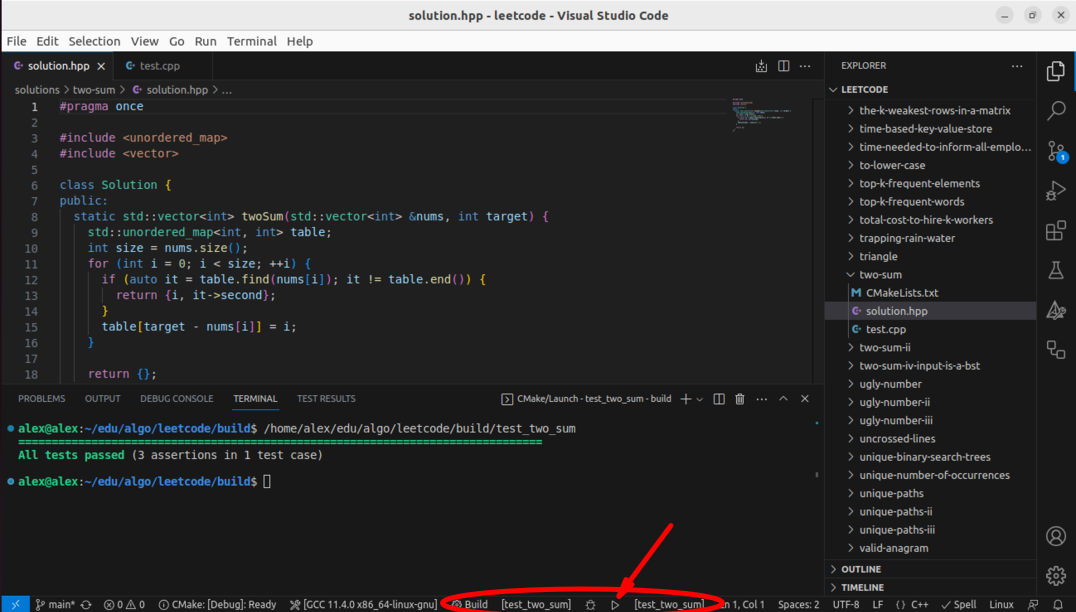
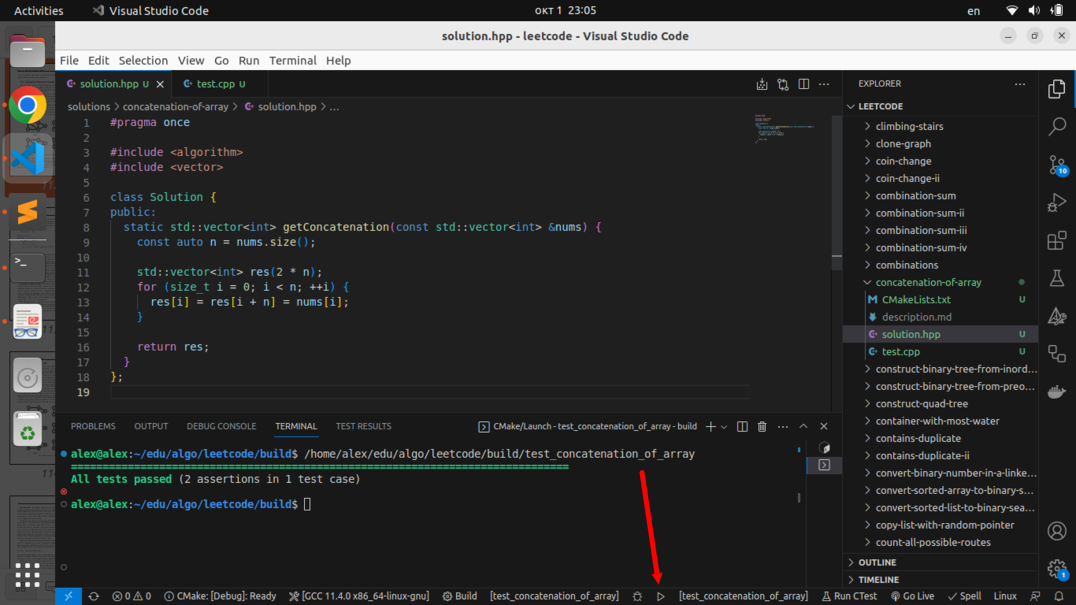
Update README.md

diff --git a/leetcode.py b/leetcode.py
@@ -1,5 +1,6 @@
-from argparse import ArgumentParser
+from argparse import ArgumentParser, BooleanOptionalAction
 from dataclasses import dataclass
+from glob import glob
 from pathlib import Path
 
 import requests
@@ -40,6 +41,8 @@ DIFFICULTY_COLOR_MAP = {
     "Hard": "red",
 }
 
+LEETCODE_GRAPHQL_URL = "https://leetcode.com/graphql"
+
 
 @dataclass
 class Task:
@@ -53,9 +56,29 @@ class Task:
     meta_data: str
 
 
-def get_task_info(task_slug: str) -> Task:
-    url = "https://leetcode.com/graphql"
+def get_daily_question_slug() -> Task:
+    query = """
+    query questionOfToday {
+        activeDailyCodingChallengeQuestion {
+            question {
+                titleSlug
+            }
+        }
+    }
+    """
 
+    response = requests.post(
+        LEETCODE_GRAPHQL_URL,
+        json={
+            "query": query,
+        },
+    )
+    data = response.json()["data"]
+    question = data["activeDailyCodingChallengeQuestion"]["question"]
+    return question["titleSlug"]
+
+
+def get_task_info(task_slug: str) -> Task:
     query = """
     query questionData($titleSlug: String!) {
         question(titleSlug: $titleSlug) {
@@ -80,7 +103,7 @@ def get_task_info(task_slug: str) -> Task:
         "query": query,
     }
 
-    response = requests.post(url, json=data)
+    response = requests.post(LEETCODE_GRAPHQL_URL, json=data)
     question = response.json()["data"]["question"]
 
     snippets = {s["langSlug"]: s["code"] for s in question["codeSnippets"]}
@@ -116,10 +139,28 @@ def update_cmake(task_slug: str) -> None:
             file.write(task)
 
 
+def create_problem_description_file(task_path: Path, task: Task) -> None:
+    with open(task_path / DESCRIPTION_FILE, "w") as file:
+        file.write(
+            DESCRIPTION_FILE_CONTENT.format(
+                frontend_id=task.frontend_id,
+                title=task.title,
+                title_slug=task.title_slug,
+                color=DIFFICULTY_COLOR_MAP[task.difficulty],
+                difficulty=task.difficulty,
+                content=task.content,
+            )
+        )
+
+
 def create_task_folder(task_slug: str) -> None:
     task = get_task_info(task_slug)
-
     task_path = Path("solutions") / Path(task_slug)
+
+    if Path.exists(task_path):
+        print(f"Already exists: {task_path}")
+        return
+
     task_path.mkdir()
 
     with open(task_path / SOLUTION_FILE, "w") as file:
@@ -139,34 +180,57 @@ def create_task_folder(task_slug: str) -> None:
             )
         )
 
-    with open(task_path / DESCRIPTION_FILE, "w") as file:
-        file.write(
-            DESCRIPTION_FILE_CONTENT.format(
-                frontend_id=task.frontend_id,
-                title=task.title,
-                title_slug=task.title_slug,
-                color=DIFFICULTY_COLOR_MAP[task.difficulty],
-                difficulty=task.difficulty,
-                content=task.content,
-            )
-        )
+    create_problem_description_file(task_path, task)
+
+    update_cmake(task_slug)
+
+    print(f"Created file: {task_path / SOLUTION_FILE}")
 
 
 if __name__ == "__main__":
     parser = ArgumentParser()
-    parser.add_argument(
-        "--slug",
-        type=str,
-        required=True,
+    subparsers = parser.add_subparsers(title="Commands", dest="cmd")
+
+    get_task = subparsers.add_parser(
+        "get",
+        help="Get LeetCode Problem",
     )
-    parser.add_argument(
+    get_task.add_argument(
+        "slug",
+        type=str,
+        help="LeetCode Problem Slug",
+    )
+    get_task.add_argument(
         "--lang",
         type=str,
         choices=["cpp"],
         default="cpp",
         required=False,
     )
+
+    get_daily = subparsers.add_parser(
+        "get-daily",
+        help="Get Daily LeetCode Problem",
+    )
+
+    get_descriptions = subparsers.add_parser(
+        "get-descriptions",
+        help="Update LeetCode Problems Description",
+    )
+
     args = parser.parse_args()
 
-    create_task_folder(args.slug)
-    # update_cmake(args.slug)
+    if args.cmd is None:
+        parser.print_help()
+    elif args.cmd == "get":
+        create_task_folder(args.slug)
+    elif args.cmd == "get-daily":
+        create_task_folder(get_daily_question_slug())
+    elif args.cmd == "get-descriptions":
+        for path in glob("./solutions/*", recursive=False):
+            task_path = Path(path)
+            task = get_task_info(task_path.name)
+            create_problem_description_file(task_path, task)
+    else:
+        print(f"Unknown command {args.cmd}")
+        parser.print_help()

diff --git a/README.md b/README.md
@@ -28,17 +28,21 @@ ext install ms-python.vscode-pylance
 
 ## Generating a template for a task
 
-Open project and run the following command in the VS Code terminal:
+Copy the slug of the desired LeetCode problem as shown in the picture:
+
+![plot](./res/slug.png)
+
+Open project and run the following command in the VS Code terminal, specify the previously copied slug:
 
 ```bash
-python3 gen_task.py "Some Problem"
+python3 leetcode.py get concatenation-of-array
 ```
 
-Open the following files:
+The command above will generate several files, open them in the terminal:
 
 ```bash
-code solutions/some-problem/solution.hpp
-code solutions/some-problem/test.cpp
+code solutions/concatenation-of-array/solution.hpp
+code solutions/concatenation-of-array/test.cpp
 ```
 
 After writing the solution to the problem and the tests, use the VS Code status bar to run the tests:
@@ -46,6 +50,12 @@ After writing the solution to the problem and the tests, use the VS Code status 
 
 Or use TestMate extension:
 ![plot](./res/test-mate.png)
+
+The command to get the LeetCode Daily question:
+
+```bash
+python3 leetcode.py get-daily
+```
 
 ## Auto-Format in VS Code
 
